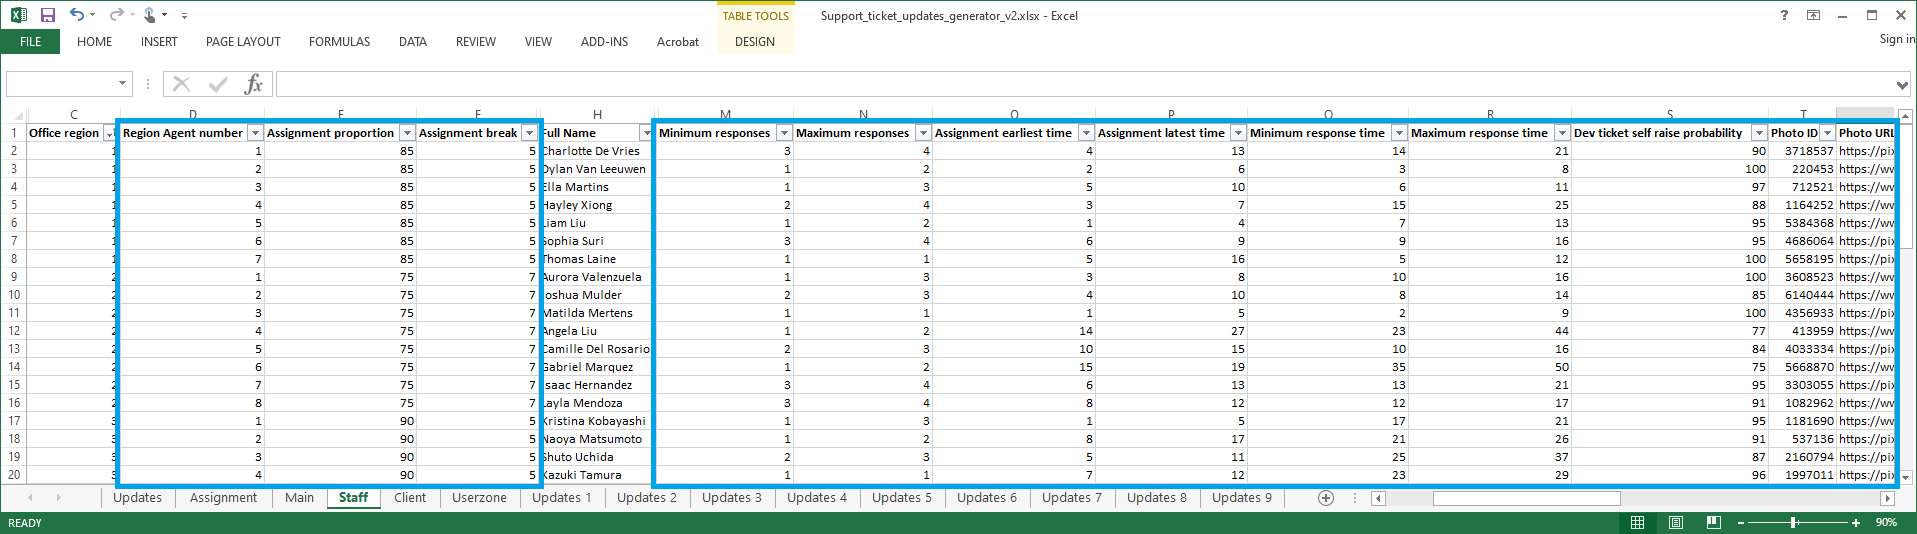
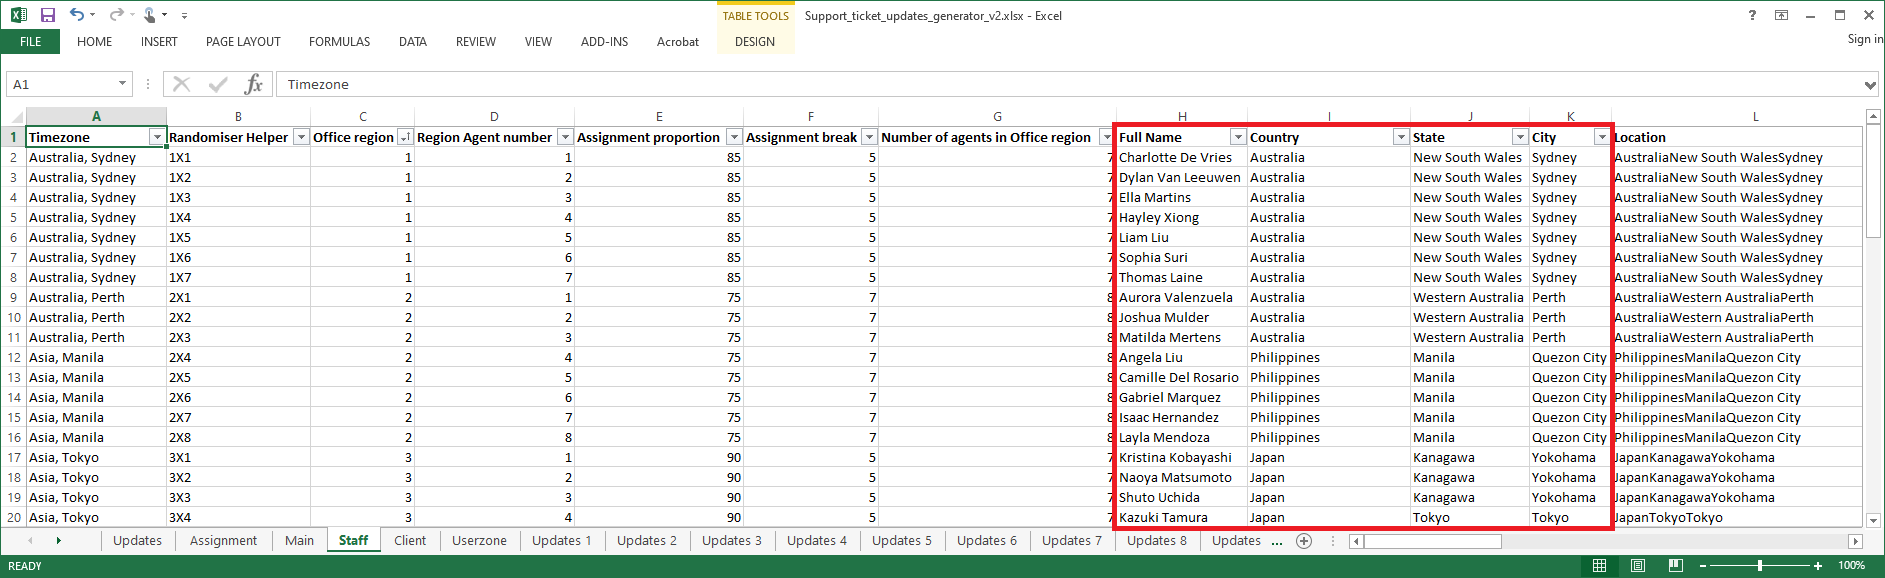
Update readme

diff --git a/README.md b/README.md
@@ -21,13 +21,32 @@ It's recommended to revise the output for duplicates or other unrealistic or und
 Sample output can be downloaded here:
 * [https://github.com/datamesse/excel-support-ticket-update-generator/blob/main/Support_ticket_updates_v2.xlsx](https://github.com/datamesse/excel-support-ticket-update-generator/blob/main/Support_ticket_updates_v2.xlsx?raw=true)
 
+Because Excel's randomisation appears to create a discrete uniform distribution of values, I created the **Main** worksheet to define deliberate trends.
+
+In this case, there are 2 areas:
+* *Ticket criticality ranges by country*: The probability range of an End-user raising the ticket as Critical, High, Medium, or Low based on their *Country*.
+* *Development escalation by country*: The probability that an End-user's support ticket is escalated to development based on their *Country*.
+
+How *Ticket criticality ranges by country* works: 
+
+**Updates 1** randomises between 1 and 100, and if the value is:
+ - Greater than or equal to *High*, then the ticket is "Critical".
+ - Greater than or equal to *Medium*, then the ticket is "High".
+ - Greater than or equal to *Low*, then the ticket is "Medium"
+ - If it meets none of the conditions, it is "Low".
+
+![Main tab of ticket update generator](https://github.com/datamesse/excel-support-ticket-update-generator/blob/main/screenshots/03.png?raw=true)
+
+**Note:** The current data in this worksheet is setup based on the locations for the randomised people I extracted using the first generator. If you have additional clients based in other countries not here, you will need to add them in.
+
+
 After deciding on the names to be used for the support agents, populate the relevant columns under the **Staff** worksheet (indicated in red). The columns which are autopopulated using vlookups should be left alone (e.g. *Timezone* and *Randomiser helper*). 
 
-![Filling in support agent names in ticket update generator](https://github.com/datamesse/excel-support-ticket-update-generator/blob/main/screenshots/03.png?raw=true)
+![Filling in support agent names in ticket update generator](https://github.com/datamesse/excel-support-ticket-update-generator/blob/main/screenshots/04.png?raw=true)
 
 There are a number of columns representing the statistics for each agent that need to be manually defined  (indicated in blue).
 
-![Filling in support agent statistics](https://github.com/datamesse/excel-support-ticket-update-generator/blob/main/screenshots/04.png?raw=true)
+![Filling in support agent statistics](https://github.com/datamesse/excel-support-ticket-update-generator/blob/main/screenshots/05.png?raw=true)
 
 The following 3 columns are used by the **Updates 1** worksheet's *Assignee name* column to distribute tickets among agents belonging to the same *Office region*.
 
@@ -68,11 +87,11 @@ Agent photos for the sample dataset are here:
 
 Photographs were taken from [Pixabay.com](https://pixabay.com/service/license/) and [Pexels.com](https://www.pexels.com/license/) for non-commercial use, edited to fit the appearance of an organisational profile photo, and direct URL attribution included in the dataset for each photo.
 
-![Sample dataset agent photos](https://github.com/datamesse/excel-support-ticket-update-generator/blob/main/screenshots/05.png?raw=true)
+![Sample dataset agent photos](https://github.com/datamesse/excel-support-ticket-update-generator/blob/main/screenshots/06.png?raw=true)
 
 After deciding on the names to be used for the clients, populate the relevant columns under the **Client** worksheet (indicated in red).
 
-![Filling in client names in ticket update generator](https://github.com/datamesse/excel-support-ticket-update-generator/blob/main/screenshots/06.png?raw=true)
+![Filling in client names in ticket update generator](https://github.com/datamesse/excel-support-ticket-update-generator/blob/main/screenshots/07.png?raw=true)
 
 Then manually define the response times for each client.
 * *Minimum response time*: Earliest time in minutes for client to reply to agent.
